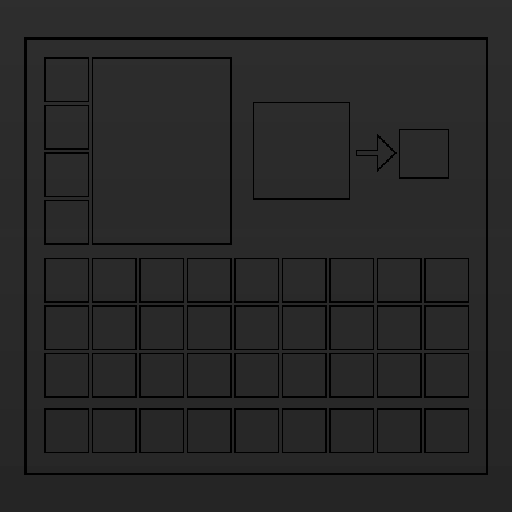
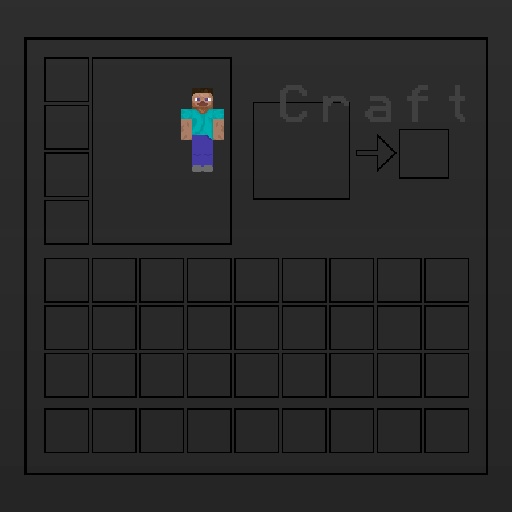
feat: upgrade inv.png with Steve skin and Crafting text rendering
- Extract ascii.png (font) and steve.png (skin) from resource packs
- Add renderMcText() to render ASCII text from ascii.png atlas
- Add renderSkinFront() to render 2D front view from steve.png
- Composite Steve preview and "Crafting" label onto inventory GUI
- Remove inventory-raw-card from pack detail page

Changed region(s): [[0.3438, 0.1562, 0.4375, 0.3438]]

diff --git a/scripts/extract-textures.js b/scripts/extract-textures.js
@@ -46,6 +46,8 @@ const KEY_TEXTURES = {
     ['assets/minecraft/textures/gui/widgets.png'],
     ['assets/minecraft/textures/gui/container/inventory.png'],
   ],
+  font: [['assets/minecraft/textures/font/ascii.png']],
+  skin: [['assets/minecraft/textures/entity/steve.png']],
   particle: [['assets/minecraft/textures/particle/particles.png']],
 };
 
@@ -75,7 +77,7 @@ async function extractPack(zipPath) {
   const outputDir = path.join('thumbnails', packId);
   fs.mkdirSync(outputDir, { recursive: true });
 
-  const extracted = { items: [], blocks: [], armor: [], gui: [], particle: [] };
+  const extracted = { items: [], blocks: [], armor: [], gui: [], font: [], skin: [], particle: [] };
   let description = '';
 
   // Extract pack.png (use default if not found)
@@ -223,27 +225,145 @@ async function extractPack(zipPath) {
   return { packId, originalName, extracted, outputDir, description };
 }
 
+async function renderMcText(asciiPath, text, scale = 1) {
+  const asciiImg = sharp(asciiPath);
+  const meta = await asciiImg.metadata();
+  const cellW = Math.round(meta.width / 16);
+  const cellH = Math.round(meta.height / 16);
+
+  const charBuffers = [];
+  for (const c of text) {
+    const code = c.charCodeAt(0);
+    const col = code % 16;
+    const row = Math.floor(code / 16);
+    const buf = await sharp(asciiPath)
+      .extract({ left: col * cellW, top: row * cellH, width: cellW, height: cellH })
+      .toBuffer();
+    charBuffers.push(buf);
+  }
+
+  const totalW = cellW * text.length;
+  const composites = charBuffers.map((buf, i) => ({
+    input: buf, left: i * cellW, top: 0,
+  }));
+
+  let textBuf = await sharp({
+    create: { width: totalW, height: cellH, channels: 4, background: { r: 0, g: 0, b: 0, alpha: 0 } }
+  }).composite(composites).raw().toBuffer({ resolveWithObject: true });
+
+  const pixels = textBuf.data;
+  for (let i = 0; i < pixels.length; i += 4) {
+    if (pixels[i + 3] > 0) {
+      pixels[i] = 64; pixels[i + 1] = 64; pixels[i + 2] = 64;
+    }
+  }
+
+  const finalW = totalW * scale;
+  const finalH = cellH * scale;
+  return sharp(pixels, { raw: { width: totalW, height: cellH, channels: 4 } })
+    .resize(finalW, finalH, { kernel: 'nearest' })
+    .png()
+    .toBuffer();
+}
+
+async function renderSkinFront(skinPath, targetHeight) {
+  const skinMeta = await sharp(skinPath).metadata();
+  const isOld = skinMeta.height === skinMeta.width / 2; // 64x32 format
+  const skinScale = skinMeta.width / 64;
+  const s = skinScale;
+
+  const parts = {
+    head:     { sx: 8*s,  sy: 8*s,  w: 8*s,  h: 8*s  },
+    body:     { sx: 20*s, sy: 20*s, w: 8*s,  h: 12*s },
+    rightArm: { sx: 44*s, sy: 20*s, w: 4*s,  h: 12*s },
+    rightLeg: { sx: 4*s,  sy: 20*s, w: 4*s,  h: 12*s },
+    leftArm:  isOld ? null : { sx: 36*s, sy: 52*s, w: 4*s, h: 12*s },
+    leftLeg:  isOld ? null : { sx: 20*s, sy: 52*s, w: 4*s, h: 12*s },
+  };
+
+  const extractPart = (p) => sharp(skinPath)
+    .extract({ left: p.sx, top: p.sy, width: p.w, height: p.h })
+    .toBuffer();
+
+  const mirrorPart = (p) => sharp(skinPath)
+    .extract({ left: p.sx, top: p.sy, width: p.w, height: p.h })
+    .flop()
+    .toBuffer();
+
+  const canvasW = 16 * s;
+  const canvasH = 32 * s;
+
+  const composites = [
+    { input: await extractPart(parts.head), left: 4*s, top: 0 },
+    { input: await extractPart(parts.body), left: 4*s, top: 8*s },
+    { input: parts.leftArm ? await extractPart(parts.leftArm) : await mirrorPart(parts.rightArm), left: 0, top: 8*s },
+    { input: await extractPart(parts.rightArm), left: 12*s, top: 8*s },
+    { input: parts.leftLeg ? await extractPart(parts.leftLeg) : await mirrorPart(parts.rightLeg), left: 4*s, top: 20*s },
+    { input: await extractPart(parts.rightLeg), left: 8*s, top: 20*s },
+  ];
+
+  const scaleRatio = targetHeight / canvasH;
+  const finalW = Math.round(canvasW * scaleRatio);
+
+  return sharp({
+    create: { width: canvasW, height: canvasH, channels: 4, background: { r: 0, g: 0, b: 0, alpha: 0 } }
+  })
+    .composite(composites)
+    .resize(finalW, targetHeight, { kernel: 'nearest' })
+    .png()
+    .toBuffer();
+}
+
 // 生成带暗化背景的背包预览图 inv.png
-// 参考 inventory-processing.md 文档规则
 async function generateInventoryPreview(inventoryPath, outputDir) {
   try {
     const metadata = await sharp(inventoryPath).metadata();
-    const { width, height } = metadata;
+    const { width } = metadata;
     const scale = width / 256;
 
     // 裁剪主背包区域 (0,0,176,166) - 256-base 坐标
     const cropW = Math.round(176 * scale);
     const cropH = Math.round(166 * scale);
 
-    const inventoryCrop = await sharp(inventoryPath)
-      .extract({ left: 0, top: 0, width: cropW, height: cropH })
-      .toBuffer();
+    // 在 inventory 裁剪图上合成 Steve 和 Crafting 文字（在缩放之前）
+    const invCropComposites = [];
+
+    // Steve 皮肤 - 预览框区域约 (52,19) 起，宽50×高70
+    const skinPath = path.join(outputDir, 'steve.png');
+    if (fs.existsSync(skinPath)) {
+      const skinTargetH = Math.round(70 * scale);
+      const skinBuf = await renderSkinFront(skinPath, skinTargetH);
+      const skinMeta = await sharp(skinBuf).metadata();
+      const skinX = Math.round(52 * scale + (50 * scale - skinMeta.width) / 2);
+      const skinY = Math.round(19 * scale + (70 * scale - skinMeta.height) / 2);
+      invCropComposites.push({ input: skinBuf, left: skinX, top: skinY, blend: 'over' });
+    }
+
+    // "Crafting" 文字 - 位置约 (97,18)
+    const asciiPath = path.join(outputDir, 'ascii.png');
+    if (fs.existsSync(asciiPath)) {
+      const textBuf = await renderMcText(asciiPath, 'Crafting', Math.round(scale));
+      const textX = Math.round(97 * scale);
+      const textY = Math.round(18 * scale);
+      invCropComposites.push({ input: textBuf, left: textX, top: textY, blend: 'over' });
+    }
+
+    let inventoryCrop;
+    if (invCropComposites.length > 0) {
+      inventoryCrop = await sharp(inventoryPath)
+        .extract({ left: 0, top: 0, width: cropW, height: cropH })
+        .composite(invCropComposites)
+        .toBuffer();
+    } else {
+      inventoryCrop = await sharp(inventoryPath)
+        .extract({ left: 0, top: 0, width: cropW, height: cropH })
+        .toBuffer();
+    }
 
     // 创建方形画布 (512x512)
     const canvasSize = 512;
     const padding = 24;
 
-    // 计算缩放后的背包尺寸，保持宽高比，适应方形画布
     const availableSize = canvasSize - padding * 2;
     const invAspect = 176 / 166;
     let destW, destH;
@@ -255,18 +375,13 @@ async function generateInventoryPreview(inventoryPath, outputDir) {
       destW = Math.round(availableSize * invAspect);
     }
 
-    // 居中位置
     const destX = Math.round((canvasSize - destW) / 2);
     const destY = Math.round((canvasSize - destH) / 2);
 
-    // 缩放背包图像
     const resizedInventory = await sharp(inventoryCrop)
       .resize(destW, destH, { kernel: 'nearest' })
       .toBuffer();
 
-    // 创建暗化背景渐变 (模拟 Minecraft drawDefaultBackground)
-    // 顶部: RGBA(16,16,16,192/255) 底部: RGBA(16,16,16,208/255)
-    // 使用 SVG 创建渐变
     const gradientSvg = `
       <svg width="${canvasSize}" height="${canvasSize}">
         <defs>
@@ -279,13 +394,12 @@ async function generateInventoryPreview(inventoryPath, outputDir) {
       </svg>
     `;
 
-    // 合成最终图像
     await sharp({
       create: {
         width: canvasSize,
         height: canvasSize,
         channels: 4,
-        background: { r: 139, g: 139, b: 139, alpha: 255 } // 灰色基底
+        background: { r: 139, g: 139, b: 139, alpha: 255 }
       }
     })
       .composite([

diff --git a/assets/js/pack-detail.js b/assets/js/pack-detail.js
@@ -64,7 +64,6 @@ document.addEventListener('DOMContentLoaded', async () => {
           </div>
           <div class="preview-card gui-card"><canvas id="gui-preview"></canvas></div>
           <div class="preview-card inventory-card">${img('inv.png')}</div>
-          <div class="preview-card inventory-raw-card">${img('inventory.png')}</div>
           <div class="preview-card particles-card">${img('particles.png')}</div>
         </div>
       </div>
